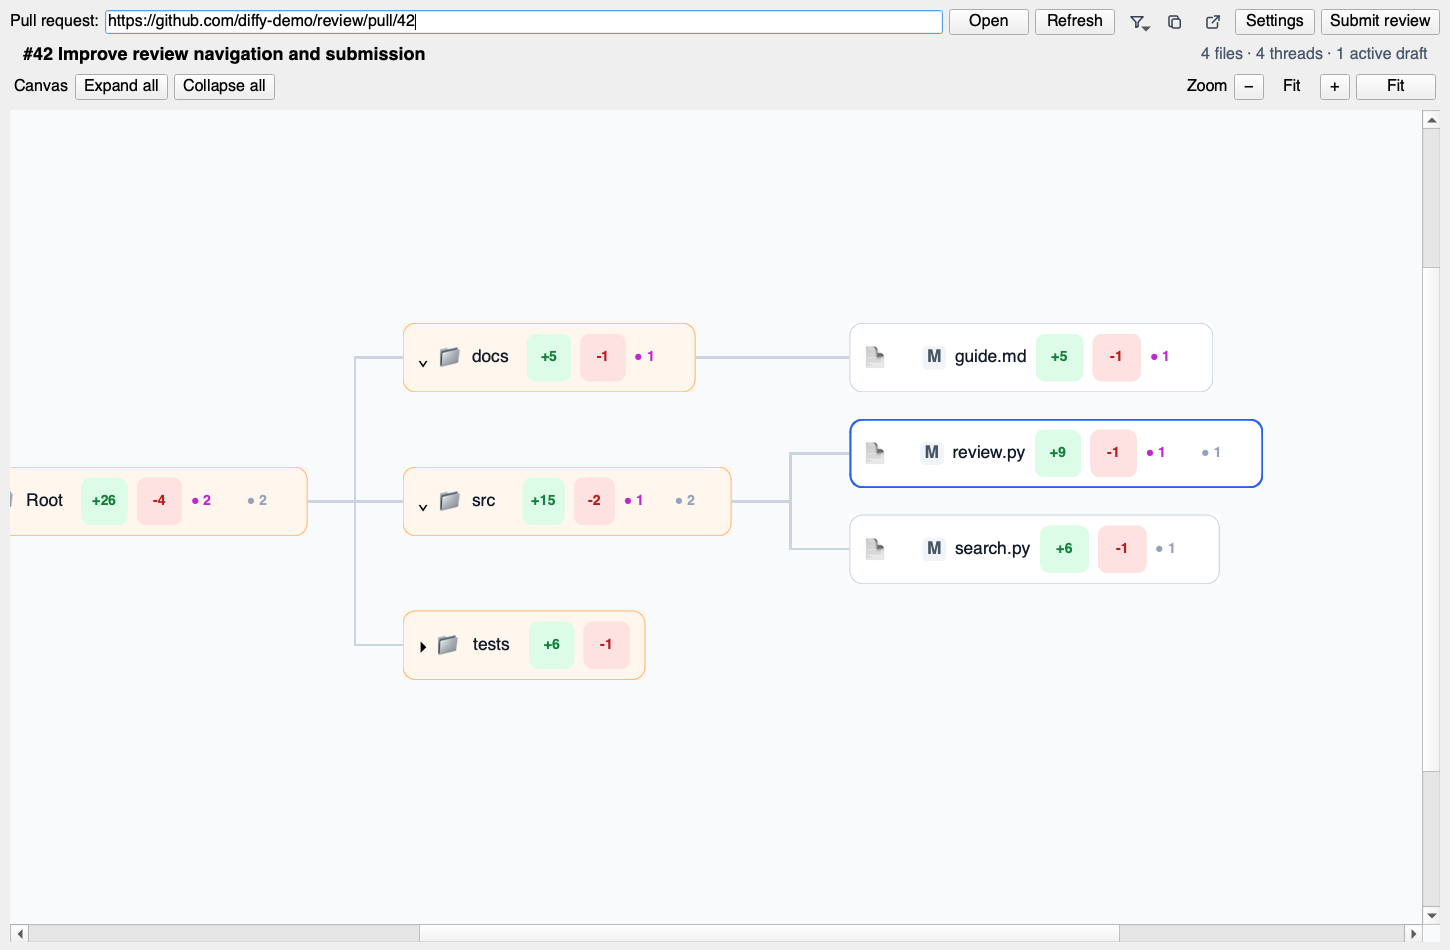
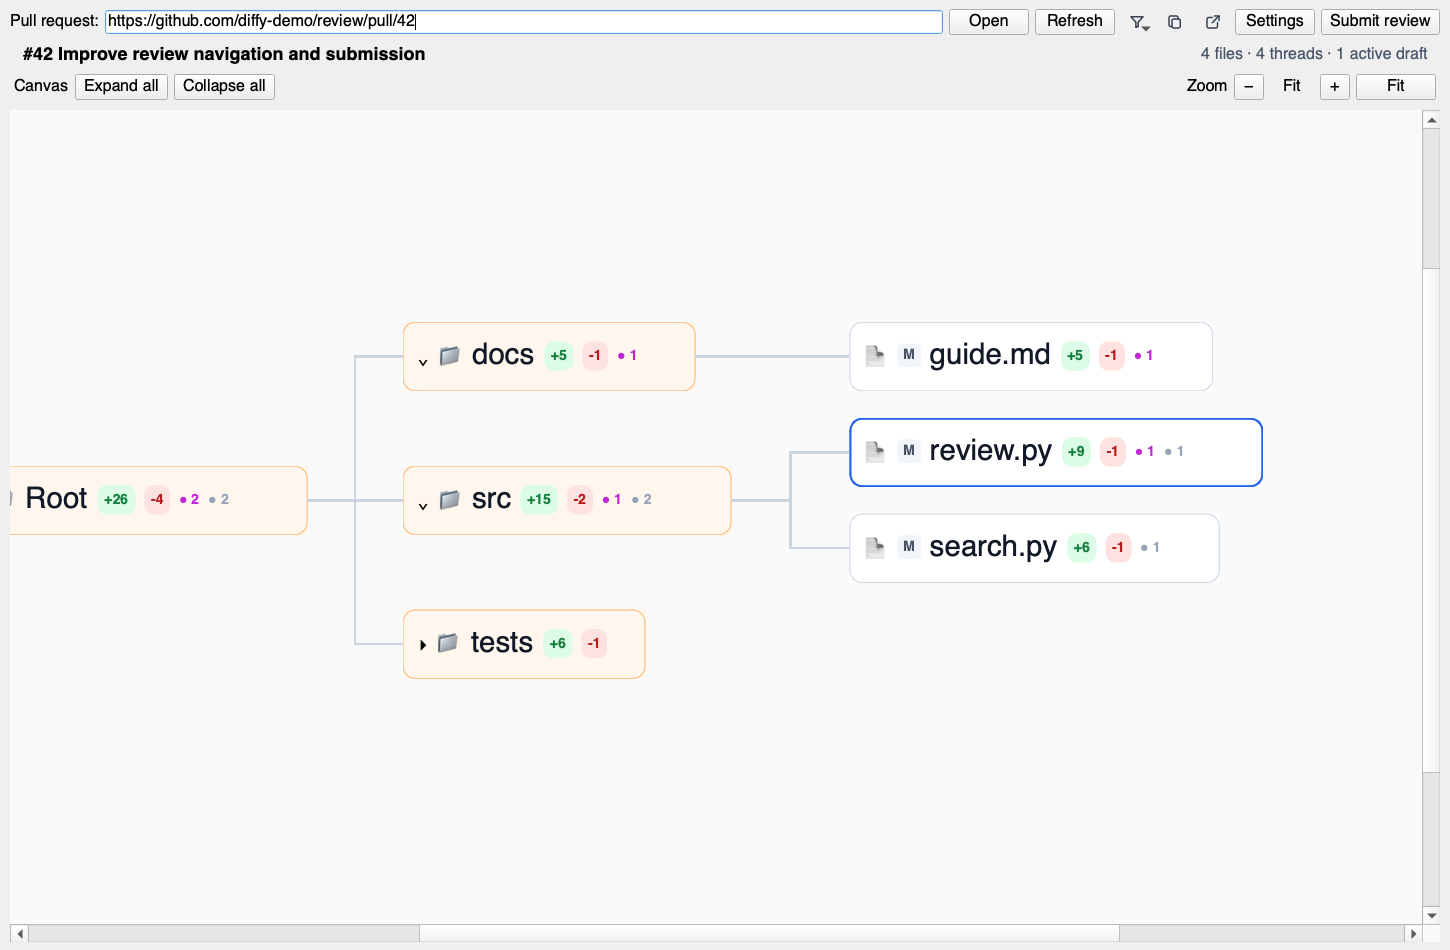
Refine file node layout

diff --git a/diffy/ui/tree_node.py b/diffy/ui/tree_node.py
@@ -1,7 +1,7 @@
 from __future__ import annotations
 
 from PySide6.QtCore import Qt, Signal
-from PySide6.QtGui import QKeySequence
+from PySide6.QtGui import QFont, QKeySequence
 from PySide6.QtWidgets import QHBoxLayout, QLabel, QSizePolicy, QWidget
 
 
@@ -24,6 +24,8 @@ class TreeNodeWidget(QWidget):
         style: str,
         tooltip: str,
         shortcuts: dict[str, QKeySequence] | None = None,
+        font_family: str = "Helvetica",
+        font_size: int = 15,
     ):
         super().__init__()
         self.setObjectName("treeNode")
@@ -34,6 +36,7 @@ class TreeNodeWidget(QWidget):
         self.node_resolved_comment_count = resolved_comment_count
         self.node_comment_count = open_comment_count + resolved_comment_count
         self.shortcuts = shortcuts or {}
+        self.setFont(QFont(font_family, font_size))
         self.setFocusPolicy(Qt.FocusPolicy.StrongFocus)
         self.setFixedSize(width, height)
         self.setToolTip(tooltip)
@@ -44,18 +47,21 @@ class TreeNodeWidget(QWidget):
         layout.setSpacing(8)
 
         icon_label = QLabel(icon)
+        icon_label.setSizePolicy(QSizePolicy.Policy.Maximum, QSizePolicy.Policy.Preferred)
         icon_label.setStyleSheet("font-size: 17px; background: transparent; border: 0;")
         layout.addWidget(icon_label)
 
         if status:
             status_label = QLabel(status)
             status_label.setAlignment(Qt.AlignmentFlag.AlignCenter)
+            status_label.setFont(QFont(font_family, 13))
             status_label.setFixedSize(22, 22)
-            status_label.setStyleSheet("background: #f1f5f9; color: #475569; border: 0; border-radius: 5px; font-weight: 600;")
+            status_label.setStyleSheet("background: #f1f5f9; color: #475569; border: 0; border-radius: 5px; font-size: 13px; font-weight: 600;")
             layout.addWidget(status_label)
 
         name_label = QLabel(name)
-        name_label.setSizePolicy(QSizePolicy.Policy.Preferred, QSizePolicy.Policy.Preferred)
+        name_label.setSizePolicy(QSizePolicy.Policy.Maximum, QSizePolicy.Policy.Preferred)
+        name_label.setFont(QFont(font_family, font_size))
         name_label.setMinimumWidth(0)
         name_label.setStyleSheet("background: transparent; border: 0; color: #111827;")
         layout.addWidget(name_label)
@@ -63,26 +69,31 @@ class TreeNodeWidget(QWidget):
         if additions:
             additions_label = QLabel(f"+{additions}")
             additions_label.setAlignment(Qt.AlignmentFlag.AlignCenter)
+            additions_label.setSizePolicy(QSizePolicy.Policy.Maximum, QSizePolicy.Policy.Preferred)
             additions_label.setStyleSheet("background: #dcfce7; color: #15803d; border: 0; border-radius: 9px; padding: 2px 6px; font-size: 13px; font-weight: 600;")
             layout.addWidget(additions_label)
 
         if deletions:
             deletions_label = QLabel(f"-{deletions}")
             deletions_label.setAlignment(Qt.AlignmentFlag.AlignCenter)
+            deletions_label.setSizePolicy(QSizePolicy.Policy.Maximum, QSizePolicy.Policy.Preferred)
             deletions_label.setStyleSheet("background: #fee2e2; color: #b91c1c; border: 0; border-radius: 9px; padding: 2px 6px; font-size: 13px; font-weight: 600;")
             layout.addWidget(deletions_label)
 
         if open_comment_count:
             open_comment_label = QLabel(f"● {open_comment_count}")
             open_comment_label.setToolTip("Open comments")
+            open_comment_label.setSizePolicy(QSizePolicy.Policy.Maximum, QSizePolicy.Policy.Preferred)
             open_comment_label.setStyleSheet("background: transparent; color: #c026d3; border: 0; font-size: 13px; font-weight: 600;")
             layout.addWidget(open_comment_label)
         if resolved_comment_count:
             resolved_comment_label = QLabel(f"● {resolved_comment_count}")
             resolved_comment_label.setToolTip("Resolved comments")
+            resolved_comment_label.setSizePolicy(QSizePolicy.Policy.Maximum, QSizePolicy.Policy.Preferred)
             resolved_comment_label.setStyleSheet("background: transparent; color: #94a3b8; border: 0; font-size: 13px; font-weight: 600;")
             layout.addWidget(resolved_comment_label)
 
+        layout.setAlignment(Qt.AlignmentFlag.AlignLeft | Qt.AlignmentFlag.AlignVCenter)
         for child in self.findChildren(QLabel):
             child.setAttribute(Qt.WidgetAttribute.WA_TransparentForMouseEvents)
 

diff --git a/diffy/ui/main_window.py b/diffy/ui/main_window.py
@@ -680,8 +680,22 @@ class SpatialCanvas(QGraphicsView):
             tooltip: str,
             callback=None,
         ) -> None:
-            node = TreeNodeWidget(icon, name, status, additions, deletions, comment_counts[0], comment_counts[1], width, node_height, style, tooltip, self.shortcuts)
-            node.setFont(QFont(self.font_family, self.font_size))
+            node = TreeNodeWidget(
+                icon,
+                name,
+                status,
+                additions,
+                deletions,
+                comment_counts[0],
+                comment_counts[1],
+                width,
+                node_height,
+                style,
+                tooltip,
+                self.shortcuts,
+                self.font_family,
+                self.font_size,
+            )
             if callback:
                 node.clicked.connect(callback)
             node.focused.connect(lambda node=node: self._node_focus_changed(node))
@@ -736,8 +750,6 @@ class SpatialCanvas(QGraphicsView):
                 file = value
                 status = {"modified": "M", "added": "A", "deleted": "D", "renamed": "R"}.get(file.status, "M")
                 filename = file.path.rsplit("/", 1)[-1]
-                if file.path in self.viewed:
-                    filename = f"✓  {filename}"
                 comment_counts = self.comment_counts.get(file.path, (0, 0))
                 width = estimated_width("📄", filename, status, file.additions, file.deletions, comment_counts)
                 if parent_position is not None:
